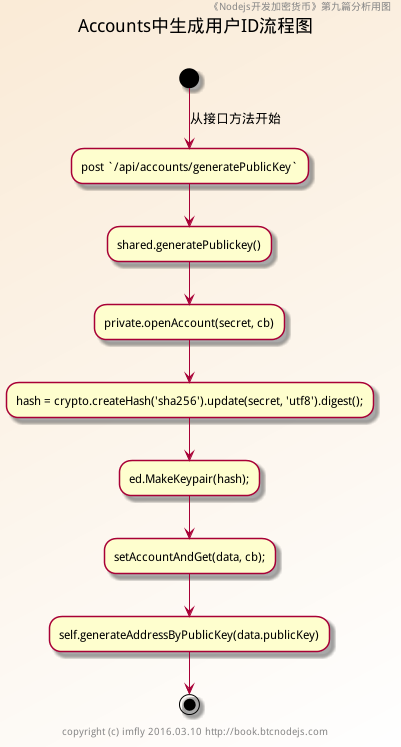
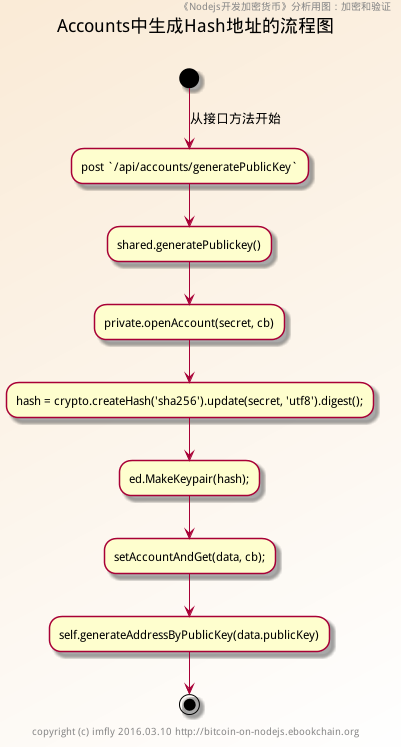
修改第16篇

Changed region(s): [[0.1496, 0.0, 0.9875, 0.0616], [0.4489, 0.9545, 0.8978, 0.9853], [0.0898, 0.9545, 0.389, 0.9853]]

diff --git a/3-源码解读/5-地址.md b/3-源码解读/5-地址.md
@@ -2,9 +2,7 @@
 
 ## 前言
 
-上一篇，我们专门研究了《在Nodejs中使用加密解密技术》，明白了加密解密的使用。并在讲解加密解密技术的过程中，详细说明了地址产生的过程。但是，从开发的角度来说，远远不够，因为产生的密钥地址如何持久化到数据库？如何检索？如何用来签名？怎么实现交易的？
-
-本篇文章，就从业务逻辑的角度，看看亿书的地址、签名和交易是如何实现的。
+上一篇，我们专门研究了《加密和验证》技术，明白了亿书对于加密解密技术的简单使用。我们说，加密货币处处都要用到加密解密技术，绝对不是一句空话，本篇文章我们就从最基础的加密货币地址开始，来学习和体会这句话的意义。
 
 ## 源码
 
@@ -22,17 +20,19 @@ contacts.js https://github.com/Ebookcoin/ebookcoin/blob/master/modules/contacts.
 
 ## 流程图
 
-这里的逻辑并不复杂，其本质就是一种`交易`，所以，请参考《交易》一章的流程图。
+这里的逻辑并不复杂，其本质就是一种`交易`，所以，我们将在《交易》那篇提供详细的流程图。
 
 ## 解读
 
 计算机软件是人类活动的模拟和程序化，也就是大家所谓的“虚拟化”。在设计的时候，都会设想一个角色（Role）代替人类，负责完成要开发的各类操作。这个角色，通常在开发中被定义为用户（User），用户看到并可操作的就是用户帐号，在此基础上，才能进行权限认证，记录和管理与用户有关的各类操作。
 
-比特币里的用户角色仅仅就是一个比特币地址，而因为真实网络的复杂性，对于IP的追踪也不容易，所以说比特币的匿名性很好（因为压根就没有给你暴露名字的机会）。作为一款加密货币产品，亿书自然也提供了类似比特币的加密字符串地址。同时，亿书还提供了用户名功能，即“别名地址”。原因有三个：
+比特币里的用户角色仅仅就是一个比特币地址，该地址是通过Hash算法进行加密处理的字符串，因此我们叫它`Hash地址`。同时，基于真实网络的复杂性，对于IP地址的追踪也不容易，所以比特币的匿名性很好（因为压根就没有给你暴露名字的机会）。
 
-1. 本质需要。版权保护应用，必然要明确版权所有人。实名信息更具真实性和可靠性，如果再进行完全的匿名操作，显然有点不合适，属于跟自己过不去。当然，普通阅读用户不需要实名，亿书允许保持足够的匿名性。
-2. 用户需要。复杂的字符串地址不适合人类脑记，很多人在最初接触比特币的时候，非常不习惯，经常弄混、忘记自己的比特币地址就是很好的证明。
-3. 产品需要。说到交互功能，比特币除了交易功能之外，是没有什么交互的。而作为面向普通用户的亿书，要提供基本写作、团队协作、自出版等极具个性化的功能，人类社交摆在突出位置，交互功能得到强化，充满个性用户名等是必须的。
+亿书作为一款加密货币产品，自然也提供了类似的`Hash地址`。并基于该地址，扩展提供了其他功能，比如“别名地址”。原因有三个：
+
+1. **本质需要**。版权保护应用，必然要明确版权所有人，实名信息是基本要求，如果再进行完全的匿名操作，显然有点不合适，属于跟自己过不去。当然，普通阅读用户不需要实名，亿书允许保持足够的匿名性。
+2. **用户需要**。复杂的字符串地址不适合人类脑记，很多人在最初接触比特币的时候，非常不习惯，经常弄混、忘记自己的比特币地址就是很好的证明。
+3. **产品需要**。说到交互功能，比特币除了交易之外，是没有什么交互的。而作为面向普通用户的亿书，要提供基本写作、团队协作、自出版等极具个性化的功能，交互功能被摆在突出位置，充满个性化的用户名是必须的。
 
 具体操作时，可以实现下面的需求，详见 [亿书白皮书][] ：
 
@@ -40,7 +40,7 @@ contacts.js https://github.com/Ebookcoin/ebookcoin/blob/master/modules/contacts.
 2. 用户名都是唯一的;
 3. 注册后无法更改或删除;
 4. 用户名可作为支付地址，所以称为`别名地址`，类似于人们常用的支付宝帐号，其它用户可以直接向该用户的用户名付款，用户不再需要记下一长串的加密货币地址;
-5. 用户可以维护一个联系人列表;
+5. 用户可以维护一个联系人列表。
 
 这些操作和信息，都可以在客户端里完成，如下图所示：
 
@@ -98,9 +98,7 @@ get /api/accounts/count -> private.accounts
 ...
 ```
 
-这里的`delegates`（受托人）api，以及后面的debug环境下的api，暂且不提。通盘浏览这些公开接口信息，我们知道，可以直接浏览的信息主要包括余额（balance)、公钥（publicKey)、用户名（username）及修改需要花费的费用（fee），以及受托人及其费用等，可以产生公钥，可以添加用户名。但是，没有删除和修改用户名的接口功能。
-
-对照上面的需求，我们还需要明白，如何做到用户名唯一的，以及如何作为支付地址功能的，这就需要进一步参看源代码。
+这里的`delegates`（受托人）api，以及后面的debug环境下的api，暂且不提。通盘浏览这些公开接口信息，我们知道，可以直接浏览的信息主要包括余额（balance)、公钥（publicKey)、用户名（username）及修改用户名需要花费的费用（fee），以及受托人及其费用等，可以产生公钥和添加用户名。但是，没有删除和修改用户名的功能，所以一旦注册了用户名，想要修改，只能重新注册一个。
 
 #### 2.Hash地址
 
@@ -123,7 +121,7 @@ Accounts.prototype.generateAddressByPublicKey = function (publicKey) {
 };
 ```
 
-另一个类似的地址，就是区块链的以c结尾的块地址，用来标注`generatorId`，代码与上密的基本一致：
+另一个类似的地址，就是区块链的以c结尾的块地址，用来标注`generatorId`，代码与上面的基本一致：
 
 ```
 // logic/block.js 20行
@@ -143,7 +141,7 @@ generatorId: private.getAddressByPublicKey(raw.b_generatorPublicKey),
 ```
 #### 3.别名地址
 
-用户名相当于地址别名，就像支付宝帐号，所以白皮书说“别名地址”。我们知道，只有在转移支付的时候，才会用到地址（接受地址和发送地址），所以体现把用户名当作地址的逻辑代码，自然要在处理交易的代码里，也就是`modules/transactions.js`，具体如下：
+用户名相当于地址别名，就像支付宝帐号，所以白皮书说“别名地址”。我们知道，只有在转移支付的时候，才会用到地址（接受地址和发送地址），所以体现把用户名当作地址的逻辑代码，自然要在处理“资金转移”的交易代码里，看看`modules/transactions.js`文件，具体如下：
 
 ```
 // modules/transactions.js 文件
@@ -193,11 +191,11 @@ shared.addTransactions = function (req, cb) {
 						...
 ```
 
-上述代码，实现的就是资金转账的功能（后台编码的交易类型`TransactionTypes.SEND`，见764行），毫无疑问，必须提供三个参数"secret", "amount", "recipientId"（见685行）。 其中`recipientId` 可以是字符串地址，也可以是用户名，具体逻辑在702行。从764行以后的代码还可以了解到，交易`recipientId`和`recipientUsername`字段都保存在数据库里了。
+上述代码，实现的就是资金转账的功能（后台编码的交易类型`TransactionTypes.SEND`，见764行），毫无疑问，必须提供三个参数"secret", "amount", "recipientId"（见685行）。从702行可知，其中`recipientId` 可以是字符串地址，也可以是用户名。从764行以后的代码还可以了解到，交易时的`recipientId`和`recipientUsername`字段都保存在数据库里了。
 
 #### 4.注册用户名
 
-亿书默认不提供别名地址，需要用户注册。从上面的Api，很容易找到“注册用户名”的源码`shared.addUsername`，如下：
+亿书默认不提供别名地址，需要用户注册。从上面的Api，很容易找到“注册用户名”的源码方法`shared.addUsername`，如下：
 
 ```
 // 868行
@@ -268,9 +266,7 @@ shared.addUsername = function (req, cb) {
 		...
 ```
 
-分析代码949行和984行，可以了解到，所谓的`注册用户名`，实质上就是提交了一个`TransactionTypes.USERNAME`类型的交易。另外，因为亿书提供了多重签名和支付密码功能，对每笔交易都要进行验证，这部分我们在后面分析。关于交易如何验证和创建，您也可以查看交易部分的流程图。
-
-看890行代码，说明该Api必须两个参数，用户要提供明文密码(secret)和用户名(username)。
+分析代码949行和984行，可以了解到，所谓的`注册用户名`，实质上就是提交了一个`TransactionTypes.USERNAME`类型的交易。890行代码，说明该Api必须两个参数，用户要提供明文密码(secret)和用户名(username)。
 
 #### 5.联系人列表
 
@@ -394,6 +390,6 @@ shared.getContacts = function (req, cb) {
 
 [亿书白皮书]: http://ebookchain.org/ebookchain.pdf
 
-[wallet-add-username]: ../styles/images/third/wallet-add-username.jpg
+[wallet-add-username]: ../styles/images/third/wallet-add-username.png
 [accounts-class.png]: ../styles/images/modules/accounts/accounts-class.png
 [contacts-class.png]: ../styles/images/modules/accounts/contacts-class.png

diff --git a/3-源码解读/4-加密和验证.md b/3-源码解读/4-加密和验证.md
@@ -1,11 +1,10 @@
-# 在Node.js中使用加密解密技术
-
+# 加密和验证
 
 ## 前言
 
 加密解密技术在加密货币开发中的作用不言而喻。但技术本身并不是什么新鲜事，重要的是如果没有前面的P2P网络，和后面要介绍的区块链，单独的加解密显然没有那么神奇，加密货币也不会成为无需验证、高度可信的强大网络。
 
-但是，提到加解密技术，业界的通则是，使用现成的组件，严格按照文档去做，别自作聪明，这也是使用加密解密技术的最安全方式。这篇就来研究`Ebookcoin`是如何使用加解密技术的。
+但是，提到加解密技术，业界的通则是，使用现成的组件，严格按照文档去做，别自作聪明，这也是使用加密解密技术的最安全方式。这篇就来研究亿书是如何使用加解密技术的。
 
 ## 源码
 
@@ -155,7 +154,7 @@ Accounts.prototype.generateAddressByPublicKey = function (publicKey) {
 
 加解密技术专业性很强，需要花费时间深入研究。我在前人研究成果的基础上进行了汇总和再加工，绘制了三张脑图，建议阅读，详情见第四部分《三张图让你全面掌握加密解密技术》一章。本篇权当入门，并没有对交易、区块链和委托人等的加密验证处理过程进行分析，加密解密过程都比较类似，后续阅读时会进一步说明。
 
-其实，加密和验证的过程贯穿于交易的全过程，研究交易才是更好的理解加密和验证机制的方法。因此，请看下一篇：**帐号、签名与交易**
+其实，加密和验证的过程贯穿于亿书的全过程，接下来我们逐一揭开他们神秘的面纱。请看下一篇：**地址**
 
 ## 参考
 

diff --git a/SUMMARY.md b/SUMMARY.md
@@ -14,16 +14,16 @@
   * [Nodejs让后台开发像前端一样简单](2-Node.js入门指南/3-Nodejs让后台开发像前端一样简单.md)
   * [您必须知道的几个Nodejs编码习惯](2-Node.js入门指南/4-您必须知道的几个Nodejs编码习惯.md)
 - [源码解读](3-源码解读/readme.md)
-  * [亿书，一个面向未来的自出版平台](3-源码解读/1-亿书，一个面向未来的自出版平台.md)
-  * [DPOS机制的实现](3-源码解读/10-DPOS机制的实现.md)
+  * [亿书，一个面向未来的自出版平台](3-源码解读/1-亿书，一个面向未来的自出版平台.md)  
   * [入口程序app.js解读](3-源码解读/2-入口程序app.js解读.md)
   * [一个精巧的p2p网络实现](3-源码解读/3-一个精巧的p2p网络实现.md)
-  * [在Nodejs中使用加密解密技术](3-源码解读/4-在Nodejs中使用加密解密技术.md)
+  * [加密和验证](3-源码解读/4-加密和验证.md)
   * [地址](3-源码解读/5-地址.md)
   * [签名和多重签名](3-源码解读/6-签名和多重签名.md)
   * [交易](3-源码解读/7-交易.md)
   * [神秘的区块链](3-源码解读/8-神秘的区块链.md)
   * [侧链的实现](3-源码解读/9-侧链的实现.md)
+  * [DPOS机制的实现](3-源码解读/10-DPOS机制的实现.md)
 - [开发实践](4-开发实践/readme.md)
   - 后台的架构
     * [一张图学会使用Async组件进行流程控制](4-开发实践/0-后台的架构/2-一张图学会使用Async组件进行流程控制.md)
@@ -51,4 +51,3 @@
   * [关于作者](5-附录/4-关于作者.md)
 - [后记](6-后记/readme.md)
   * [记录应该记住的内容](6-后记/1-记录应该记住的内容.md)
-* [Test](test.md)
